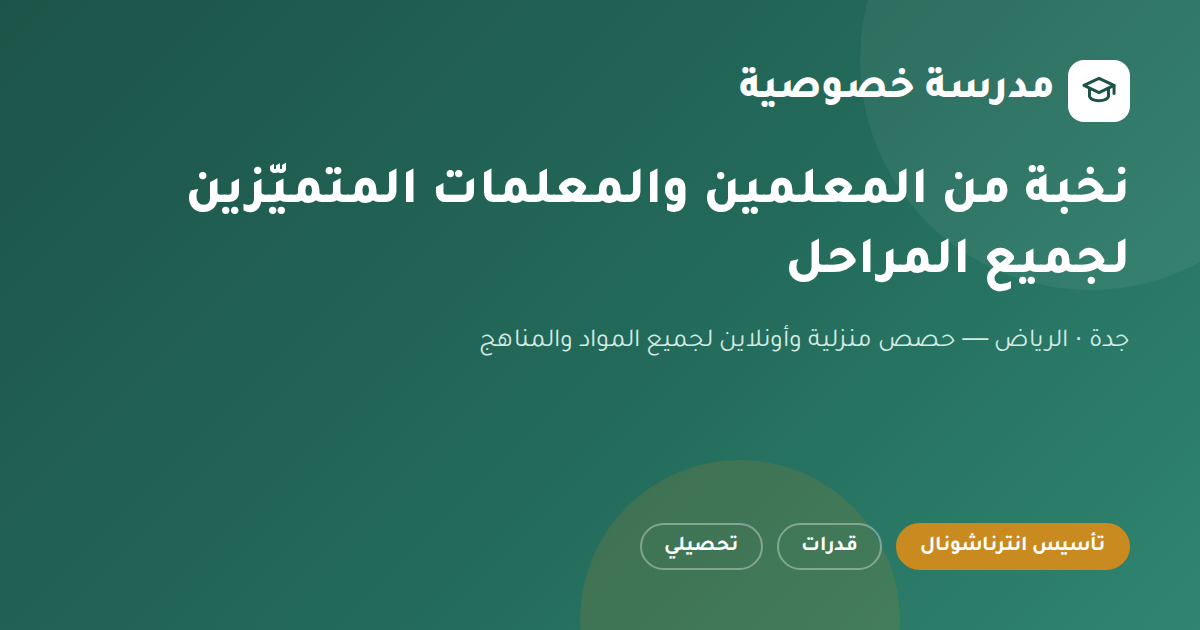
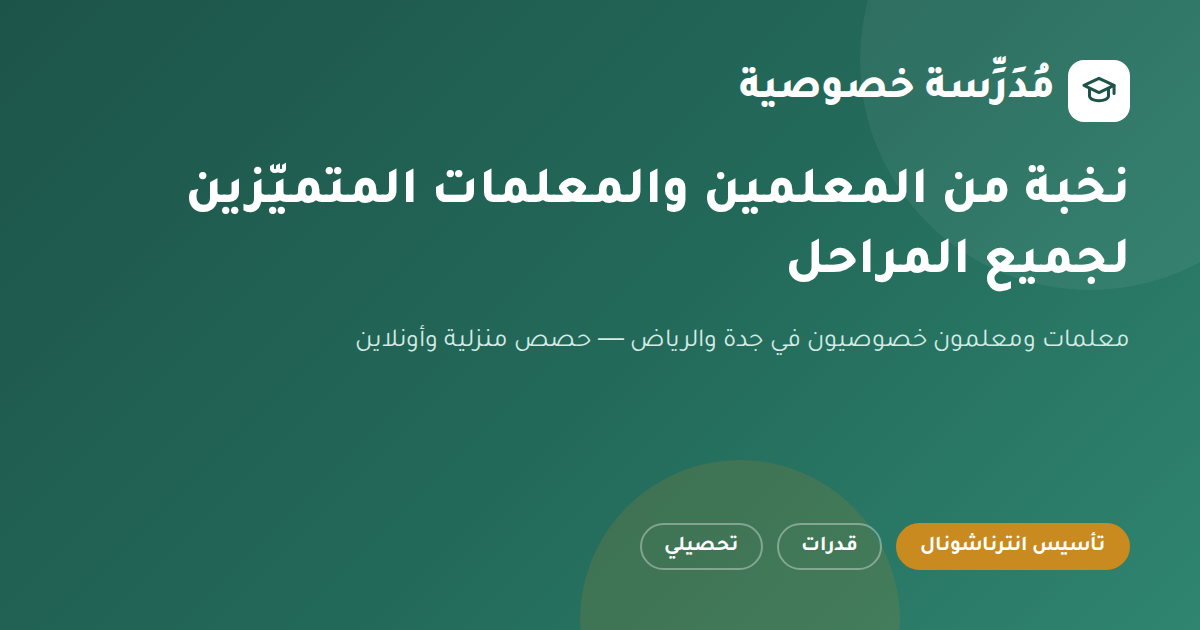
توضيح معنى الاسم: «مُدَرِّسة» المعلمة لا «مَدْرَسة» المبنى
الاسم صار مشكولًا «مُدَرِّسة خصوصية» في اللوجو ولاحقة العنوان والفوتر
وصورة OG، لأن كتابته بلا تشكيل تُقرأ «مَدْرَسة» أي المبنى — وهو المعنى
الخاطئ تمامًا لخدمة قوامها معلمات خصوصيات لا منشأة مرخّصة.

إصلاح تراجع أُدخل في الدفعة السابقة: كانت عبارة الاستهداف في عناوين H1
قد استُبدلت من «معلمة [مادة] خصوصية في [مكان]» إلى «مدرسة ...» في المواد
الإحدى عشرة كلها. هذا يوحي بالمؤسسة، ويخالف المواصفة الأصلية، ويضع
الصفحات في منافسة مع المدارس بدل المعلمات. استُعيدت «معلمة» في كل المواد.

العناوين العامة لصفحات المدن والمناطق والأحياء صارت «معلمة خصوصية متميّزة
في [مكان]»، وعنوان الرئيسية «مُدَرِّسة خصوصية متميّزة لابنك». الاسم المشكول
يبقى للبراند، و«معلمة» غير المشكولة لعبارات البحث لأن الزائر يبحث بلا تشكيل.

كيان JSON-LD تغيّر من EducationalOrganization إلى LocalBusiness، لأن الأول
يصرّح لقوقل بأننا مؤسسة تعليمية.

مسح كامل للنصوص المعروضة: كل ورودات «مدرسة» المتبقية تشير إلى مدرسة الطالب
(«كتاب المدرسة ومنصّتها») وهي مشروعة، ولا جملة تصف الخدمة كمنشأة.

Claude-Session: https://claude.ai/code/session_01XUGLQLtdgEWm149QU7xuXY

Changed region(s): [[0.3083, 0.5127, 0.9558, 0.573], [0.8017, 0.0905, 0.8942, 0.1206]]

diff --git a/data/catalog.ts b/data/catalog.ts
@@ -99,7 +99,7 @@ export const SUBJECTS: Subject[] = [
     slug: "international",
     nameAr: "التأسيس للمناهج الدولية",
     h1Noun: "تأسيس انترناشونال",
-    h1Prefix: "مدرسة تأسيس انترناشونال في",
+    h1Prefix: "معلمة تأسيس انترناشونال في",
     blurb: "تأسيس ومتابعة متميّزة لطلبة المدارس العالمية — بريطاني وأمريكي.",
     kind: "program",
     priority: true,
@@ -161,7 +161,7 @@ export const SUBJECTS: Subject[] = [
     slug: "qudrat",
     nameAr: "القدرات",
     h1Noun: "قدرات",
-    h1Prefix: "مدرسة قدرات في",
+    h1Prefix: "معلمة قدرات في",
     blurb: "استراتيجيات حل وسرعة — للقسمين الكمّي واللفظي.",
     kind: "subject",
     priority: true,
@@ -223,7 +223,7 @@ export const SUBJECTS: Subject[] = [
     slug: "tahsili",
     nameAr: "التحصيلي",
     h1Noun: "تحصيلي",
-    h1Prefix: "مدرسة تحصيلي في",
+    h1Prefix: "معلمة تحصيلي في",
     blurb: "مراجعة مركّزة لمنهج الثانوي العلمي بخطة زمنية واضحة.",
     kind: "subject",
     priority: true,
@@ -285,7 +285,7 @@ export const SUBJECTS: Subject[] = [
     slug: "english",
     nameAr: "الإنجليزية",
     h1Noun: "لغة إنجليزية",
-    h1Prefix: "مدرسة لغة إنجليزية خصوصية في",
+    h1Prefix: "معلمة لغة إنجليزية خصوصية في",
     blurb: "قراءة وقواعد ومحادثة بثقة — للمنهجين السعودي والعالمي.",
     kind: "subject",
     stages: "من الابتدائي حتى الثانوي والسنة التحضيرية",
@@ -346,7 +346,7 @@ export const SUBJECTS: Subject[] = [
     slug: "math",
     nameAr: "الرياضيات",
     h1Noun: "رياضيات",
-    h1Prefix: "مدرسة رياضيات خصوصية في",
+    h1Prefix: "معلمة رياضيات خصوصية في",
     blurb: "من الحساب الأساسي حتى التفاضل والتكامل.",
     kind: "subject",
     stages: "من الابتدائي حتى الثانوي والسنة التحضيرية",
@@ -407,7 +407,7 @@ export const SUBJECTS: Subject[] = [
     slug: "arabic",
     nameAr: "لغتي (اللغة العربية)",
     h1Noun: "لغتي",
-    h1Prefix: "مدرسة لغتي خصوصية في",
+    h1Prefix: "معلمة لغتي خصوصية في",
     blurb: "قراءة وإملاء وتعبير ونحو — تأسيس ومتابعة.",
     kind: "subject",
     stages: "من الابتدائي حتى الثانوي",
@@ -468,7 +468,7 @@ export const SUBJECTS: Subject[] = [
     slug: "science",
     nameAr: "العلوم",
     h1Noun: "علوم",
-    h1Prefix: "مدرسة علوم خصوصية في",
+    h1Prefix: "معلمة علوم خصوصية في",
     blurb: "فهم يبقى بعد الاختبار لا حفظ يزول بعده.",
     kind: "subject",
     stages: "من الابتدائي حتى المتوسط",
@@ -529,7 +529,7 @@ export const SUBJECTS: Subject[] = [
     slug: "physics",
     nameAr: "الفيزياء",
     h1Noun: "فيزياء",
-    h1Prefix: "مدرسة فيزياء خصوصية في",
+    h1Prefix: "معلمة فيزياء خصوصية في",
     blurb: "من نص المسألة إلى القانون الصحيح دون تخمين.",
     kind: "subject",
     stages: "المرحلة الثانوية والسنة التحضيرية",
@@ -590,7 +590,7 @@ export const SUBJECTS: Subject[] = [
     slug: "chemistry",
     nameAr: "الكيمياء",
     h1Noun: "كيمياء",
-    h1Prefix: "مدرسة كيمياء خصوصية في",
+    h1Prefix: "معلمة كيمياء خصوصية في",
     blurb: "تصوّر واضح للتفاعلات وحسابات بخطوات ثابتة.",
     kind: "subject",
     stages: "المرحلة الثانوية والسنة التحضيرية",
@@ -651,7 +651,7 @@ export const SUBJECTS: Subject[] = [
     slug: "step",
     nameAr: "STEP",
     h1Noun: "STEP",
-    h1Prefix: "مدرسة STEP في",
+    h1Prefix: "معلمة STEP في",
     blurb: "درجة تعكس مستواك الحقيقي في اختبار الكفاءة.",
     kind: "subject",
     stages: "طلبة الجامعات والخريجون والمعلمون",
@@ -712,7 +712,7 @@ export const SUBJECTS: Subject[] = [
     slug: "special-needs",
     nameAr: "التخاطب وصعوبات التعلم",
     h1Noun: "تخاطب وصعوبات تعلم",
-    h1Prefix: "مدرسة تخاطب وصعوبات تعلم في",
+    h1Prefix: "معلمة تخاطب وصعوبات تعلم في",
     blurb: "تقييم وخطة فردية بأهداف تُقاس.",
     kind: "program",
     stages: "من سن ما قبل المدرسة حتى المرحلة المتوسطة",

diff --git a/components/pages/RegionPage.tsx b/components/pages/RegionPage.tsx
@@ -76,7 +76,7 @@ export default function RegionPage({
 
       <section className="mx-auto max-w-content px-4 py-10">
         <h1 className="max-w-3xl text-3xl font-extrabold leading-tight text-slate-900 sm:text-4xl sm:leading-tight">
-          مدرسة خصوصية في {region.nameAr}
+          معلمة خصوصية متميّزة في {region.nameAr}
         </h1>
         <p className="mt-5 max-w-3xl text-lg leading-9 text-slate-600">{region.intro}</p>
         <ContactButtons message={message} size="lg" className="mt-8" />
@@ -115,7 +115,7 @@ export default function RegionPage({
         )}
 
         <CtaBox
-          title={`ابحث عن مدرسة خصوصية في ${region.nameAr}`}
+          title={`ابحث عن معلمة خصوصية في ${region.nameAr}`}
           body={`أرسل لنا الحي والصف الدراسي والمادة والوقت المناسب، ونرشّح لك معلمة متميّزة قريبة منك.`}
           message={message}
         />
@@ -127,7 +127,7 @@ export default function RegionPage({
           links={[
             ...otherRegions.map((r) => ({
               href: `/${city.slug}/${r.slug}`,
-              label: `مدرسة خصوصية في ${r.nameAr}`,
+              label: `معلمة خصوصية في ${r.nameAr}`,
             })),
             { href: `/${city.slug}`, label: `كل خدماتنا في ${city.nameAr}` },
           ]}
@@ -147,7 +147,7 @@ export function regionMetadata(city: City, region: Region) {
     .map((d) => d.nameAr)
     .join(" · ");
   return pageMetadata({
-    title: `مدرسة خصوصية في ${region.nameAr}`,
+    title: `معلمة خصوصية في ${region.nameAr}`,
     description: `معلمون ومعلمات متميّزون في ${region.nameAr} لجميع المواد والمراحل — ${names} وغيرها. تأسيس للمناهج الدولية وبرامج القدرات والتحصيلي، حصص منزلية أو أونلاين. تواصل عبر واتساب.`,
     path: `/${city.slug}/${region.slug}`,
   });

diff --git a/components/pages/DistrictPage.tsx b/components/pages/DistrictPage.tsx
@@ -87,7 +87,7 @@ export default function DistrictPage({
 
       <section className="mx-auto max-w-content px-4 py-10">
         <h1 className="max-w-3xl text-3xl font-extrabold leading-tight text-slate-900 sm:text-4xl sm:leading-tight">
-          مدرسة خصوصية في {placeName}
+          معلمة خصوصية متميّزة في {placeName}
         </h1>
         <p className="mt-5 max-w-3xl text-lg leading-9 text-slate-600">
           {district.demand[0]}. {district.demand[1] ?? ""} نغطّي {district.nameArFull} ضمن{" "}
@@ -145,7 +145,7 @@ export default function DistrictPage({
         />
 
         <CtaBox
-          title={`ابحث عن مدرسة خصوصية في ${placeName}`}
+          title={`ابحث عن معلمة خصوصية في ${placeName}`}
           body={`أرسل لنا الصف الدراسي والمادة والوقت المناسب، ونرشّح لك معلمة متميّزة قريبة من ${district.nameAr}.`}
           message={message}
         />
@@ -168,7 +168,7 @@ export default function DistrictPage({
 
 export function districtMetadata(city: City, region: Region, district: District) {
   return pageMetadata({
-    title: `مدرسة خصوصية في ${district.nameArFull} — ${city.nameAr}`,
+    title: `معلمة خصوصية في ${district.nameArFull} — ${city.nameAr}`,
     description: `معلمون ومعلمات متميّزون في ${district.nameArFull} ضمن ${region.nameAr} لجميع المواد والمراحل — حصص منزلية أو أونلاين، تأسيس للمناهج الدولية وبرامج القدرات والتحصيلي. تواصل عبر واتساب.`,
     path: `/${city.slug}/${district.slug}`,
   });

diff --git a/lib/config.ts b/lib/config.ts
@@ -3,7 +3,7 @@
  * اسم البراند مبدئي (placeholder) — يُغيَّر من هنا فقط وينعكس على كل الموقع.
  */
 export const BRAND = {
-  nameAr: "مدرسة خصوصية",
+  nameAr: "مُدَرِّسة خصوصية",
   nameEn: "Private Tutor",
   tagline: "نخبة من المعلمين والمعلمات المتميّزين — تأسيس ومتابعة لجميع المراحل",
   phone: "0557930608",
@@ -13,9 +13,16 @@ export const BRAND = {
 /**
  * الاسم يُطبع كما هو حرفيًا في كل مكان.
  *
+ * ⚠ التشكيل مقصود ولا يُحذف: «مُدَرِّسة» = المعلمة (الشخص)،
+ * وبدون تشكيل تُقرأ «مَدْرَسة» أي المبنى — وهو المعنى الخاطئ تمامًا،
+ * لأن الخدمة معلمات خصوصيات لا منشأة تعليمية مرخّصة.
+ *
  * ⚠ لا تشتقّ حرفًا من الاسم لتضعه بجانبه (مثل badge بأول حرف):
- * ذلك ينتج «م مدرسة خصوصية» فيقرأها الزائر «ممدرسة» — وهو الخطأ الذي ظهر
+ * ذلك ينتج «م + مُدَرِّسة خصوصية» فيُقرأ «ممدرسة» — وهو الخطأ الذي ظهر
  * سابقًا بصيغة «أأساس». علامة اللوجو رمز مستقل لا حرف من الاسم.
+ *
+ * ملاحظة بحثية: عبارات الاستهداف في عناوين H1 تستخدم «معلمة» لا «مُدَرِّسة»،
+ * لأن الزائر يبحث بلا تشكيل، و«مدرسة» بلا تشكيل تلتبس بالمبنى وتنافس المدارس.
  */
 export const BRAND_NAME = BRAND.nameAr;
 

diff --git a/app/page.tsx b/app/page.tsx
@@ -45,7 +45,7 @@ const WHY_US = [
 ];
 
 export const metadata: Metadata = pageMetadata({
-  title: `مدرسة خصوصية في جدة والرياض — تأسيس دولي وقدرات وتحصيلي`,
+  title: `معلمة خصوصية في جدة والرياض — تأسيس دولي وقدرات وتحصيلي`,
   description:
     "نخبة من المعلمين والمعلمات المتميّزين في جدة والرياض — تأسيس للمناهج البريطانية والأمريكية، وبرامج القدرات والتحصيلي، ومتابعة لجميع المواد والمراحل للمنهج السعودي، إضافة إلى التخاطب وصعوبات التعلم. تواصل عبر واتساب.",
   path: "/",
@@ -65,7 +65,7 @@ export default function HomePage() {
             جدة · الرياض — حصص منزلية وأونلاين
           </p>
           <h1 className="mt-5 max-w-3xl text-3xl font-extrabold leading-tight text-slate-900 sm:text-5xl sm:leading-tight">
-            مدرسة خصوصية متميّزة لابنك — تأسيس دولي وقدرات وتحصيلي
+            مُدَرِّسة خصوصية متميّزة لابنك — تأسيس دولي وقدرات وتحصيلي
           </h1>
           <p className="mt-5 max-w-2xl text-lg leading-9 text-slate-600">
             نخبة من المعلمين والمعلمات المتميّزين في جدة والرياض — تأسيس للمناهج البريطانية

diff --git a/app/[city]/page.tsx b/app/[city]/page.tsx
@@ -42,7 +42,7 @@ export function generateMetadata({ params }: Params): Metadata {
   const city = getCity(params.city);
   if (!city) return {};
   return pageMetadata({
-    title: `مدرسة خصوصية في ${city.nameAr}`,
+    title: `معلمة خصوصية في ${city.nameAr}`,
     description: `معلمون ومعلمات متميّزون في ${city.nameAr} لجميع المواد والمراحل — تأسيس ومتابعة للمناهج السعودية والبريطانية والأمريكية، وبرامج القدرات والتحصيلي والتخاطب وصعوبات التعلم. حصص منزلية أو أونلاين.`,
     path: `/${city.slug}`,
   });
@@ -98,7 +98,7 @@ export default function CityPage({ params }: Params) {
 
       <section className="mx-auto max-w-content px-4 py-10">
         <h1 className="max-w-3xl text-3xl font-extrabold leading-tight text-slate-900 sm:text-4xl sm:leading-tight">
-          مدرسة خصوصية في {city.nameAr}
+          معلمة خصوصية متميّزة في {city.nameAr}
         </h1>
         <p className="mt-5 max-w-3xl text-lg leading-9 text-slate-600">{city.intro}</p>
         <p className="mt-4 max-w-3xl leading-9 text-slate-600">{city.localNote}</p>

diff --git a/lib/seo.ts b/lib/seo.ts
@@ -68,10 +68,15 @@ export function subjectPageDescription(
 
 type Json = Record<string, unknown>;
 
+/**
+ * الكيان خدمة معلمات خصوصيات لا منشأة تعليمية مرخّصة،
+ * ولذلك النوع LocalBusiness لا EducationalOrganization —
+ * الأخير يصرّح لقوقل بأننا مؤسسة تعليمية وهو ما لا ينطبق علينا.
+ */
 export function organizationSchema(): Json {
   return {
     "@context": "https://schema.org",
-    "@type": "EducationalOrganization",
+    "@type": "LocalBusiness",
     "@id": `${SITE_URL}/#organization`,
     name: BRAND.nameAr,
     alternateName: BRAND.nameEn,

diff --git a/lib/content.ts b/lib/content.ts
@@ -119,7 +119,7 @@ export function regionLinks(city: City): LinkItem[] {
 export function districtLinks(citySlug: string, districts: District[]): LinkItem[] {
   return districts.map((d) => ({
     href: `/${citySlug}/${d.slug}`,
-    label: `مدرسة خصوصية في ${d.nameArFull}`,
+    label: `معلمة خصوصية في ${d.nameArFull}`,
     note: d.demand[0],
   }));
 }

diff --git a/README.md b/README.md
@@ -1,4 +1,4 @@
-# مدرسة خصوصية — موقع نخبة من المعلمين والمعلمات المتميّزين
+# مُدَرِّسة خصوصية — موقع نخبة من المعلمين والمعلمات المتميّزين
 
 موقع تسويقي مبني على SEO لنخبة من المعلمين والمعلمات المتميّزين في **جدة** و**الرياض**.
 الفكرة الأساسية: **صفحة مستقلة لكل تقاطع (مدينة × مادة)**، كل صفحة تستهدف عبارة بحث واحدة
@@ -175,8 +175,16 @@ npm run typecheck && npm run build
 
 ## قواعد البراند
 
+- **التشكيل مقصود ولا يُحذف.** الاسم «مُدَرِّسة خصوصية» = المعلمة (الشخص).
+  بلا تشكيل تُقرأ «مَدْرَسة» أي المبنى، وهو المعنى الخاطئ تمامًا لأن الخدمة
+  معلمات خصوصيات لا منشأة تعليمية مرخّصة.
+- **عبارات الاستهداف في H1 تستخدم «معلمة» لا «مُدَرِّسة»** — الزائر يبحث بلا تشكيل،
+  و«مدرسة» بلا تشكيل تلتبس بالمبنى وتضعنا في منافسة مع المدارس بدل المعلمات.
+  الاسم المشكول يظهر في اللوجو ولاحقة `<title>` والفوتر وصورة OG.
+- كيان JSON-LD هو `LocalBusiness` لا `EducationalOrganization`، لأن الأخير
+  يصرّح لقوقل بأننا مؤسسة تعليمية وهو ما لا ينطبق علينا.
 - **الاسم يُطبع كما هو حرفيًا.** لا تشتقّ حرفًا من الاسم لتضعه بجانبه كعلامة —
-  ذلك ينتج «م + مدرسة خصوصية» فيقرأها الزائر «ممدرسة»، وهو الخطأ الذي ظهر سابقًا
+  ذلك ينتج «م + مُدَرِّسة خصوصية» فيُقرأ «ممدرسة»، وهو الخطأ الذي ظهر سابقًا
   بصيغة «أأساس». علامة اللوجو رسم مستقل في `components/BrandMark.tsx`،
   ونفس الرسم في `scripts/generate-og.mjs`.
 - تغيير الاسم يتم من `lib/config.ts` → `BRAND.nameAr` فقط، ثم `npm run build && npm run og`
